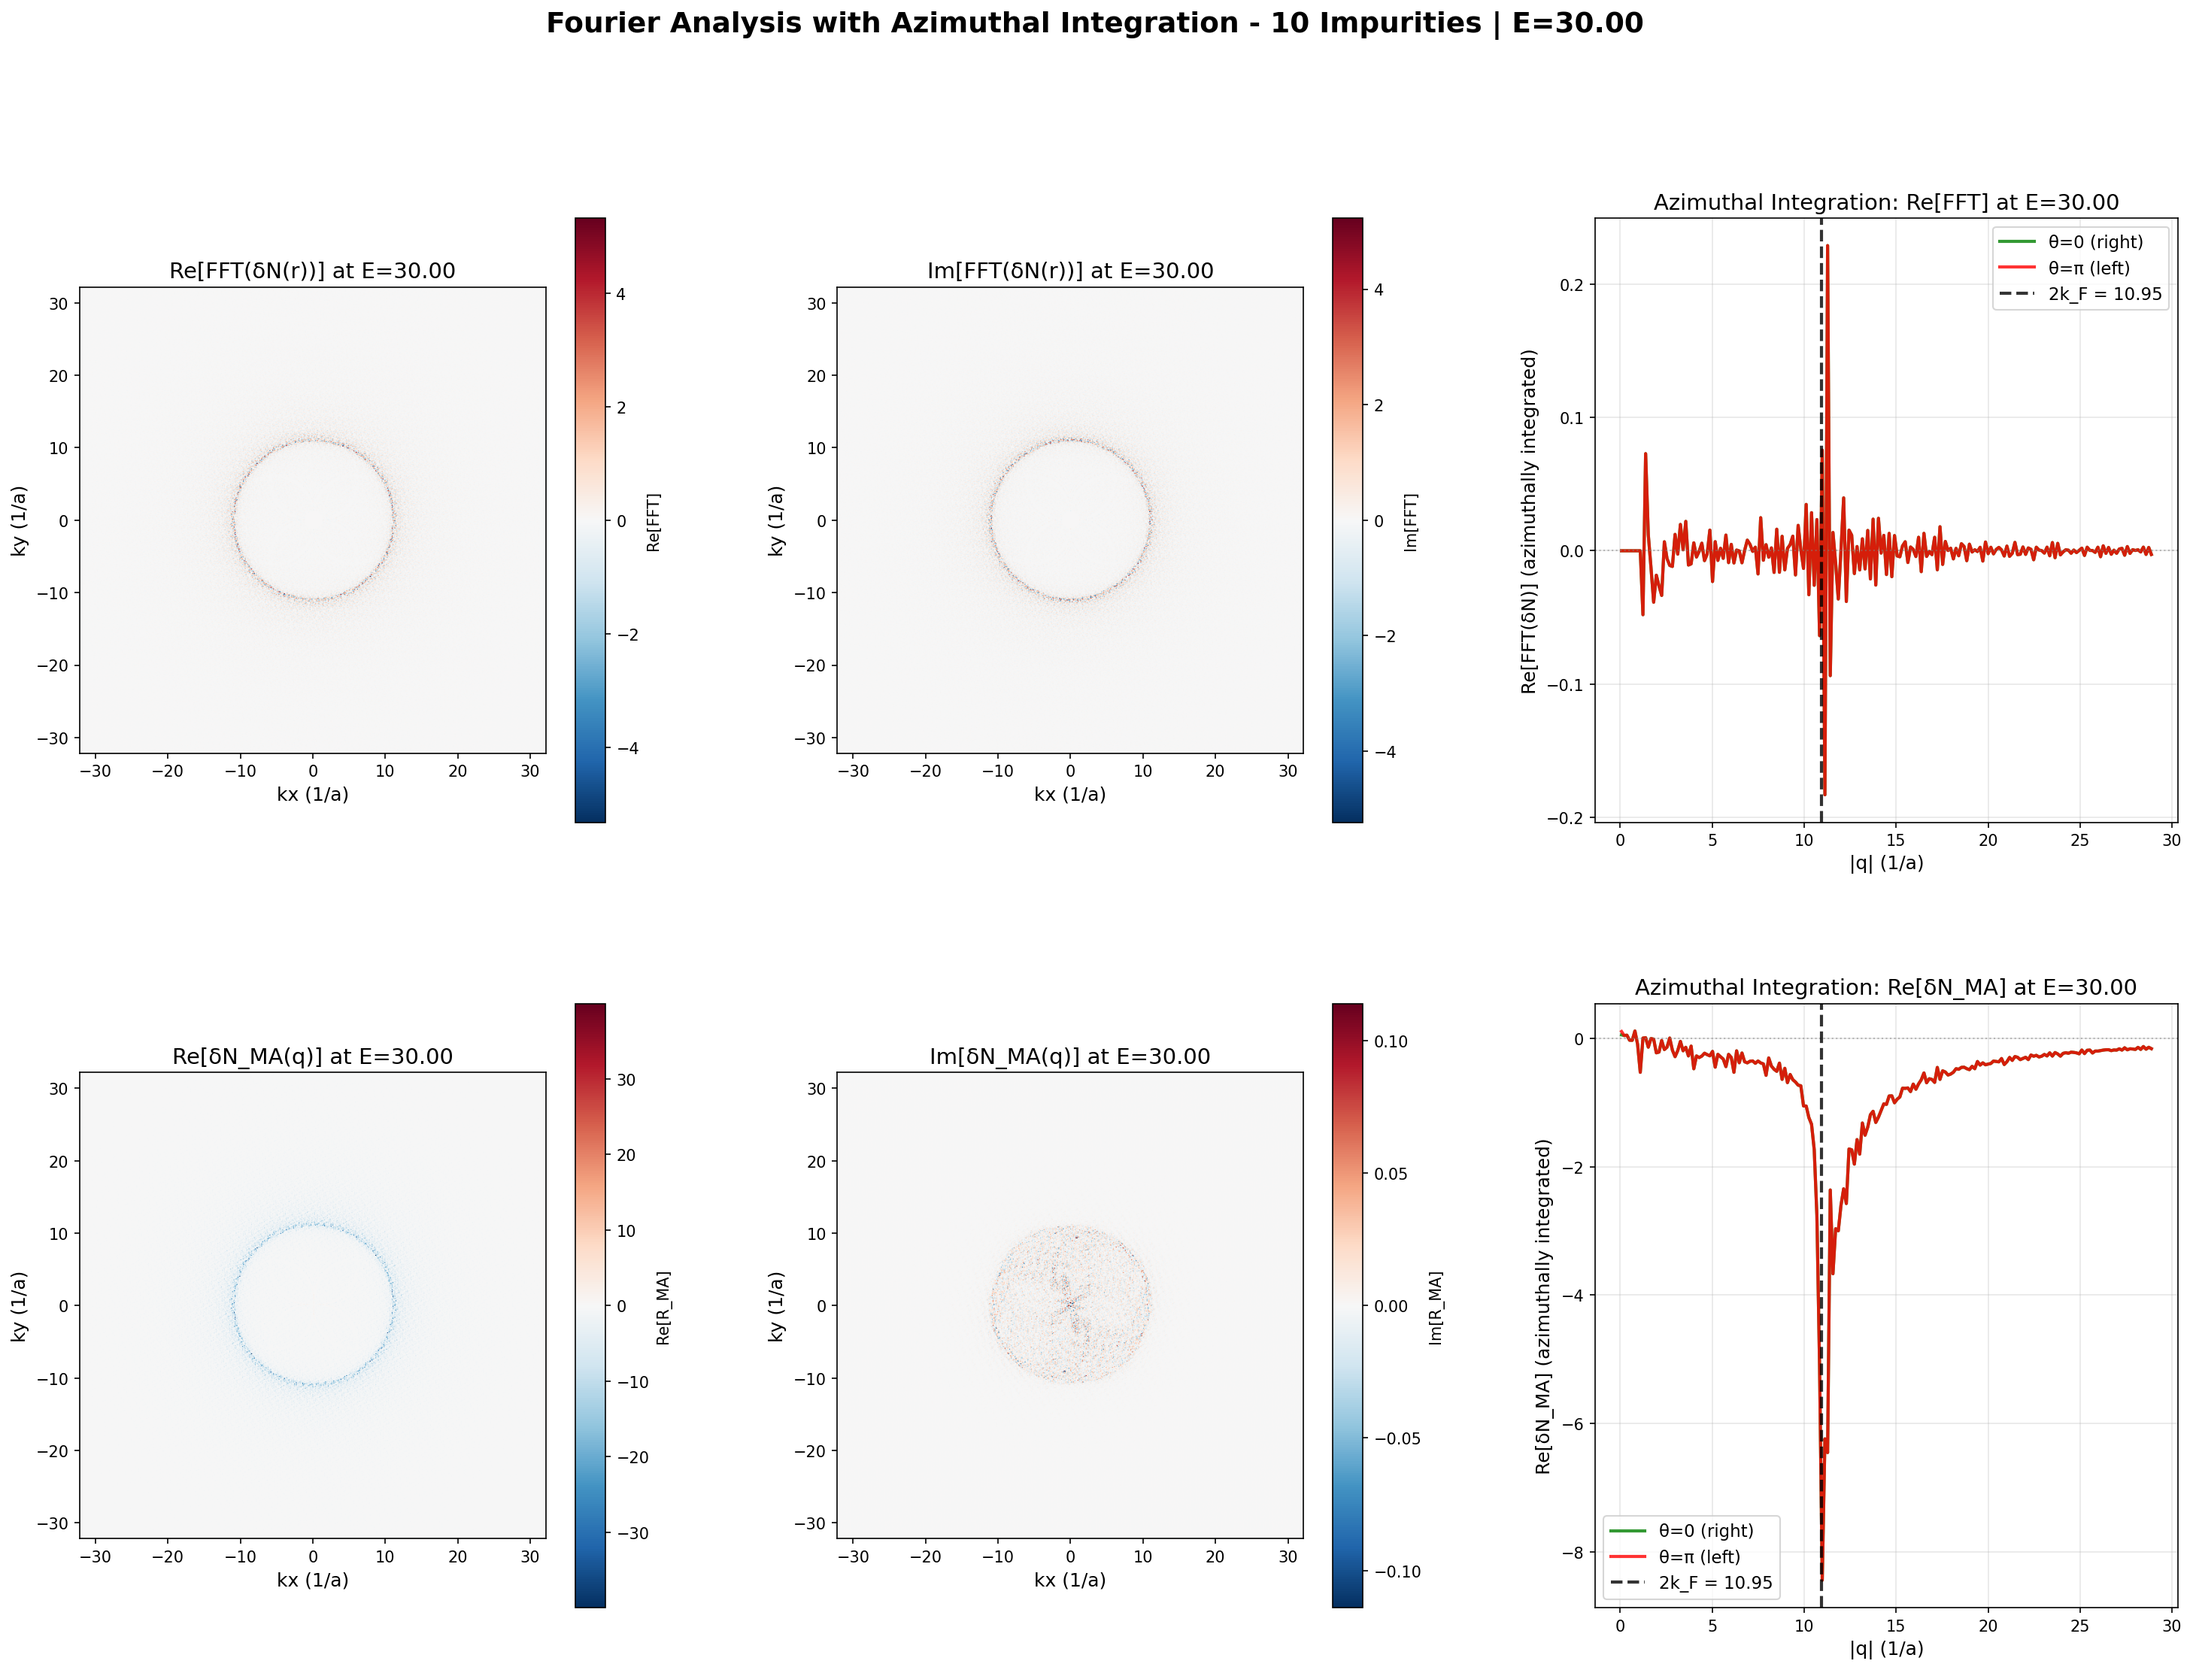
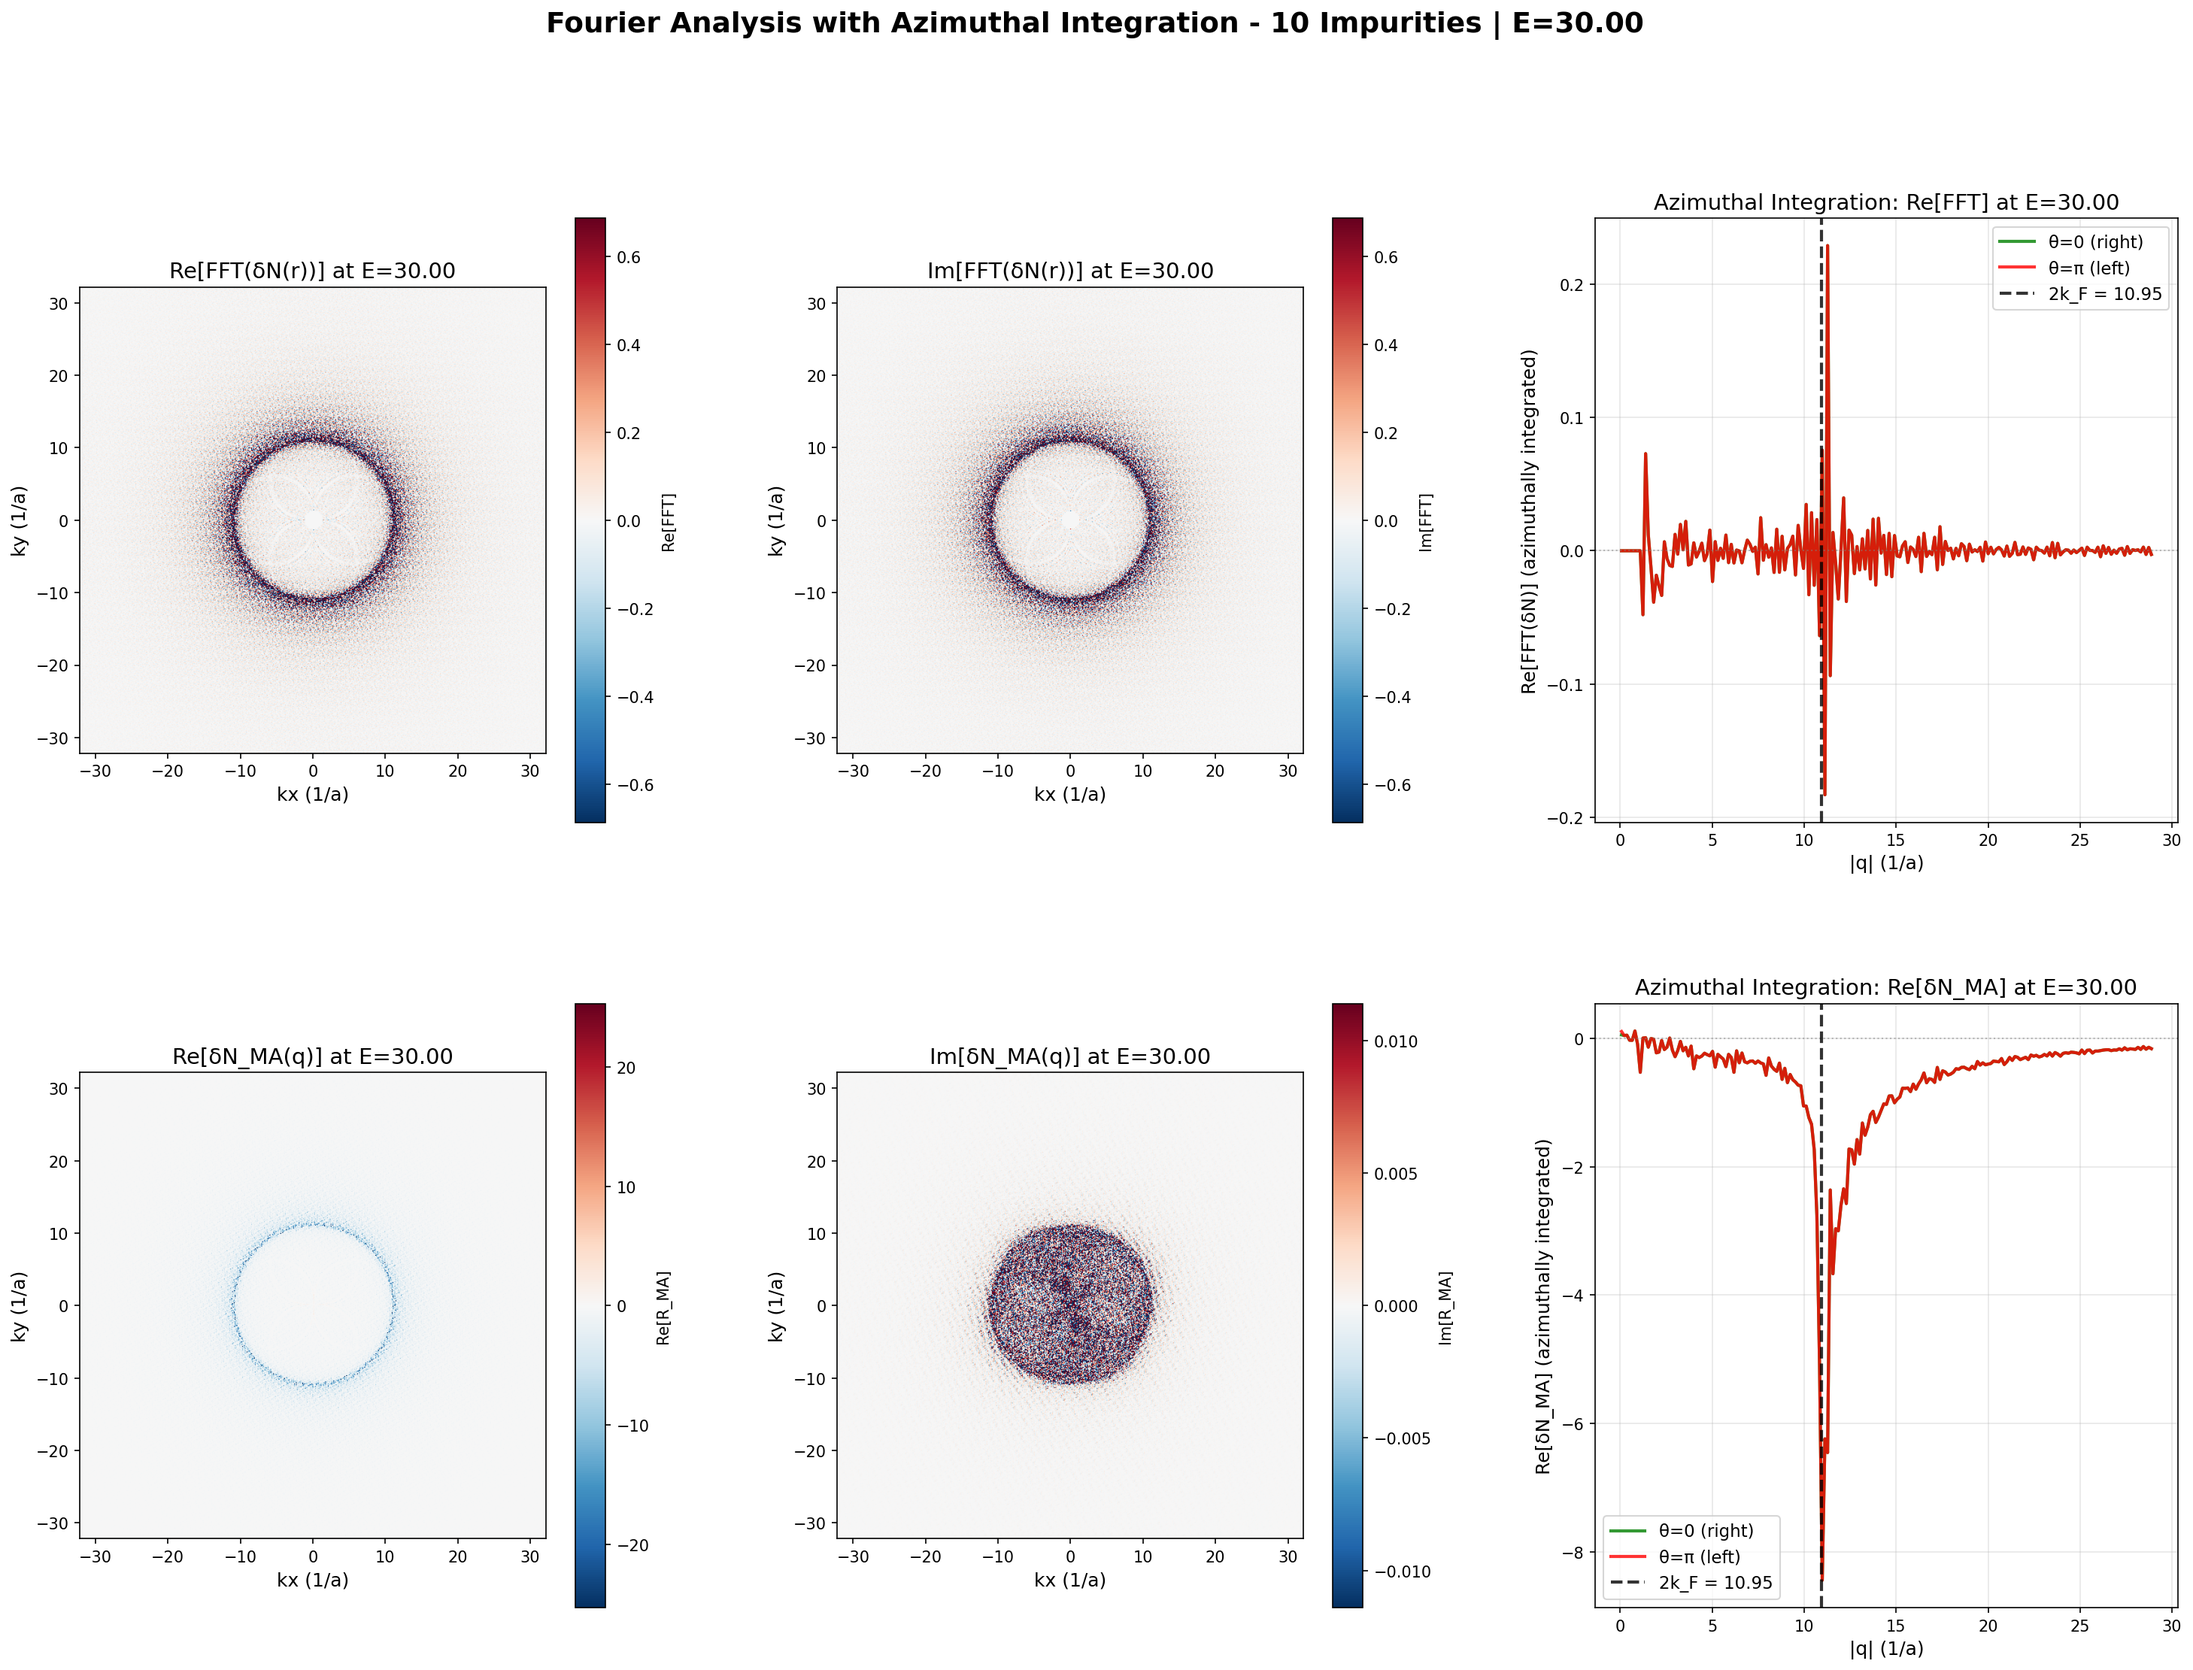
Better plot vals

diff --git a/qpi_G_OOP.py b/qpi_G_OOP.py
@@ -844,7 +844,7 @@ class QPIvisualiser:
         # Ensure symmetric color scaling for regular FFT real part
         vmax_real_fft = np.max(np.abs(real_fft))
         im1 = ax1.imshow(real_fft, origin='lower', cmap='RdBu_r', extent=extent,
-                        vmin=-vmax_real_fft, vmax=vmax_real_fft)
+                        vmin=-3*np.max(cut_left_fft), vmax=3*np.max(cut_right_fft))
         ax1.set_title(f'Re[FFT(δN(r))] at E={energy:.2f}', fontsize=14)
         ax1.set_xlabel('kx (1/a)', fontsize=12)
         ax1.set_ylabel('ky (1/a)', fontsize=12)
@@ -855,7 +855,7 @@ class QPIvisualiser:
         # Ensure symmetric color scaling for regular FFT imaginary part
         vmax_imag_fft = np.max(np.abs(imag_fft))
         im2 = ax2.imshow(imag_fft, origin='lower', cmap='RdBu_r', extent=extent,
-                        vmin=-vmax_imag_fft, vmax=vmax_imag_fft)
+                        vmin=-3*np.max(cut_left_fft), vmax=3*np.max(cut_right_fft))
         ax2.set_title(f'Im[FFT(δN(r))] at E={energy:.2f}', fontsize=14)
         ax2.set_xlabel('kx (1/a)', fontsize=12)
         ax2.set_ylabel('ky (1/a)', fontsize=12)
@@ -884,7 +884,7 @@ class QPIvisualiser:
         # Ensure symmetric color scaling for multi-atom real part
         vmax_R_MA = np.max(np.abs(real_R_MA))
         im4 = ax4.imshow(real_R_MA, origin='lower', cmap='RdBu_r', extent=extent,
-                        vmin=-vmax_R_MA, vmax=vmax_R_MA)
+                        vmin=-3*np.max(np.abs(cut_left_R_MA)), vmax=3*np.max(np.abs(cut_right_R_MA)))
         ax4.set_title(f'Re[δN_MA(q)] at E={energy:.2f}', fontsize=14)
         ax4.set_xlabel('kx (1/a)', fontsize=12)
         ax4.set_ylabel('ky (1/a)', fontsize=12)
@@ -895,7 +895,7 @@ class QPIvisualiser:
         # Ensure symmetric color scaling for multi-atom imaginary part
         vmax_imag_R_MA = np.max(np.abs(imag_R_MA))
         im5 = ax5.imshow(imag_R_MA, origin='lower', cmap='RdBu_r', extent=extent,
-                        vmin=-vmax_imag_R_MA, vmax=vmax_imag_R_MA)
+                        vmin=-0.1*vmax_imag_R_MA, vmax=0.1*vmax_imag_R_MA)
         ax5.set_title(f'Im[δN_MA(q)] at E={energy:.2f}', fontsize=14)
         ax5.set_xlabel('kx (1/a)', fontsize=12)
         ax5.set_ylabel('ky (1/a)', fontsize=12)
